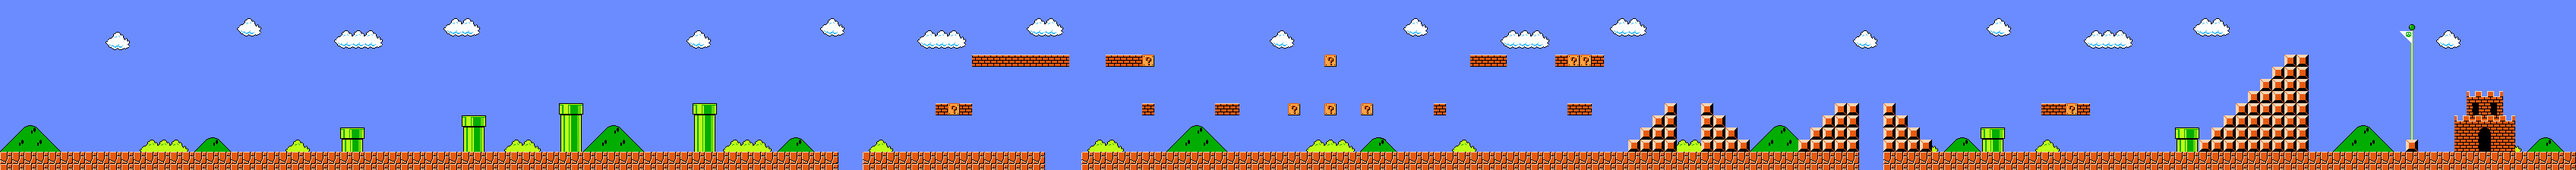
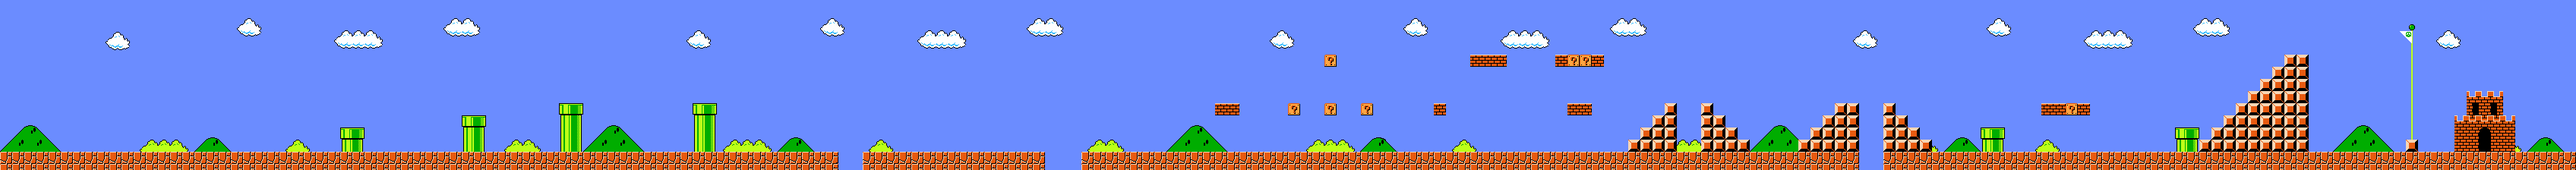
Added more bricks and coin boxes.

Changed region(s): [[0.375, 0.3125, 0.4688, 0.4062], [0.3438, 0.5938, 0.375, 0.6875], [0.4375, 0.625, 0.4688, 0.6875]]

diff --git a/data/states/level1.py b/data/states/level1.py
@@ -132,12 +132,33 @@ class Level1(tools._State):
                                           self.step27)
 
     def setup_bricks(self):
-        self.brick1 = break_brick.Brick(856, 365)
-        self.brick2 = break_brick.Brick(942, 365)
-        self.brick3 = break_brick.Brick(1029, 365)
+        self.brick1  = break_brick.Brick(858,  365)
+        self.brick2  = break_brick.Brick(944,  365)
+        self.brick3  = break_brick.Brick(1030, 365)
+        self.brick4  = break_brick.Brick(3299, 365)
+        self.brick5  = break_brick.Brick(3385, 365)
+        self.brick6  = break_brick.Brick(3430, 193)
+        self.brick7  = break_brick.Brick(3473, 193)
+        self.brick8  = break_brick.Brick(3516, 193)
+        self.brick9  = break_brick.Brick(3559, 193)
+        self.brick10 = break_brick.Brick(3602, 193)
+        self.brick11 = break_brick.Brick(3645, 193)
+        self.brick12 = break_brick.Brick(3688, 193)
+        self.brick13 = break_brick.Brick(3731, 193)
+        self.brick14 = break_brick.Brick(3901, 193)
+        self.brick15 = break_brick.Brick(3944, 193)
+        self.brick16 = break_brick.Brick(3987, 193)
+        self.brick17 = break_brick.Brick(4030, 365)
 
-        self.brick_group = pg.sprite.Group(self.brick1, self.brick2,
-                                           self.brick3)
+        self.brick_group = pg.sprite.Group(self.brick1,  self.brick2,
+                                           self.brick3,  self.brick4,
+                                           self.brick5,  self.brick6,
+                                           self.brick7,  self.brick8,
+                                           self.brick9,  self.brick10,
+                                           self.brick11, self.brick12,
+                                           self.brick13, self.brick14,
+                                           self.brick15, self.brick16,
+                                           self.brick17)
 
 
     def setup_coin_boxes(self):
@@ -145,9 +166,12 @@ class Level1(tools._State):
         self.coin_box2 = coin_box.Coin_box(901, 365)
         self.coin_box3 = coin_box.Coin_box(987, 365)
         self.coin_box4 = coin_box.Coin_box(943, 193)
+        self.coin_box5 = coin_box.Coin_box(3342, 365)
+        self.coin_box6 = coin_box.Coin_box(4030, 193)
 
         self.coin_box_group = pg.sprite.Group(self.coin_box1, self.coin_box2,
-                                              self.coin_box3, self.coin_box4)
+                                              self.coin_box3, self.coin_box4,
+                                              self.coin_box5, self.coin_box6)
 
 
 

diff --git a/data/components/break_brick.py b/data/components/break_brick.py
@@ -12,7 +12,7 @@ class Brick(pg.sprite.Sprite):
         pg.sprite.Sprite.__init__(self)
         self.sprite_sheet = setup.GFX['tile_set']
 
-        self.image = self.get_image(15, 0, 17, 16)
+        self.image = self.get_image(16, 0, 16, 16)
         self.rect = self.image.get_rect()
         self.rect.x = x
         self.rect.y = y
